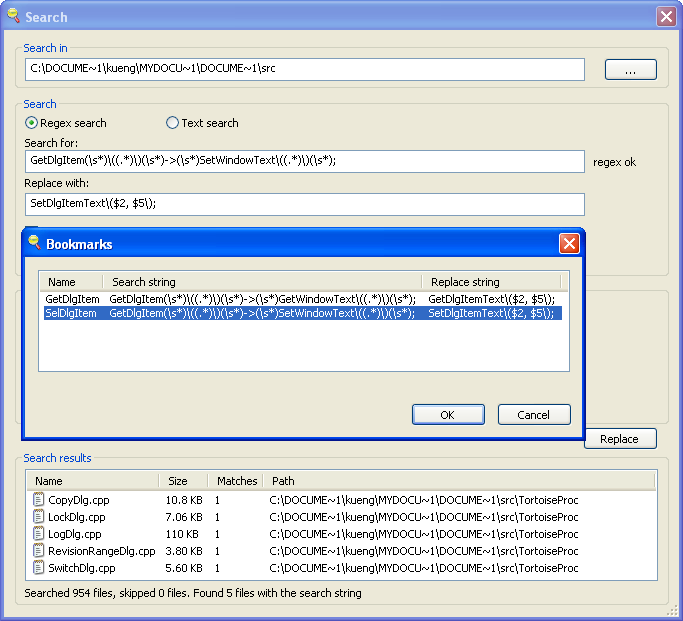
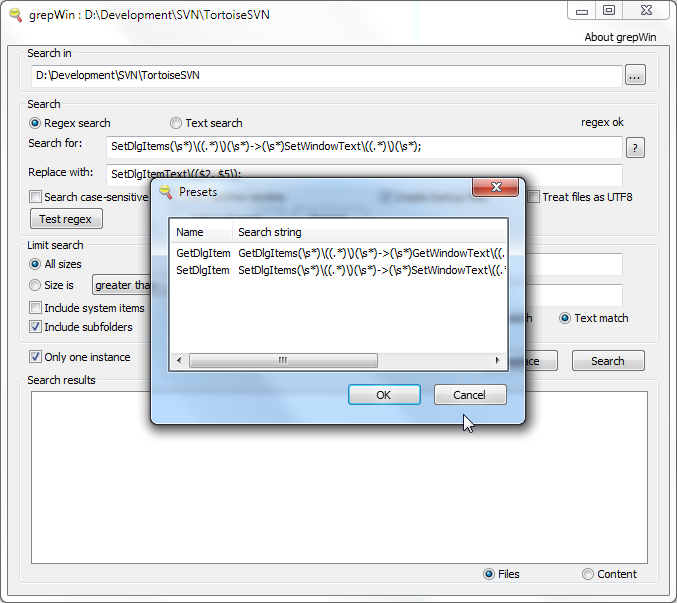
Update screenshots for grepWin.

diff --git a/www/grepWin.html b/www/grepWin.html
@@ -35,10 +35,10 @@
             <a href="images/grepWin_search.png" rel="lightbox[grepwin]"><img src="images/grepWin_search-small.png"></a>.
             <p>For example, you can (and maybe you should) limit the search to certain file sizes, file types, ...</p>
             <p>Since regular expressions can sometimes get complicated, grepWin 
-            allows you to bookmark your most used expressions.</p>
+            allows you to add your most used expressions to a presets list.</p>
             <a href="images/grepWin_addBookmark.png" rel="lightbox[grepwin]"><img src="images/grepWin_addBookmark-small.png"></a>.
-            <p>Once you've added some bookmarks, you can easily retrieve them 
-            again from the bookmarks dialog.</p>
+            <p>Once you've added some presets, you can easily retrieve them 
+            again from the presets dialog.</p>
             <a href="images/grepWin_bookmarks.png" rel="lightbox[grepwin]"><img src="images/grepWin_bookmarks-small.png"></a>.
             <p>After a successful search or replace, the matching files are 
             listed at the bottom of the dialog. The file list behaves a lot 
